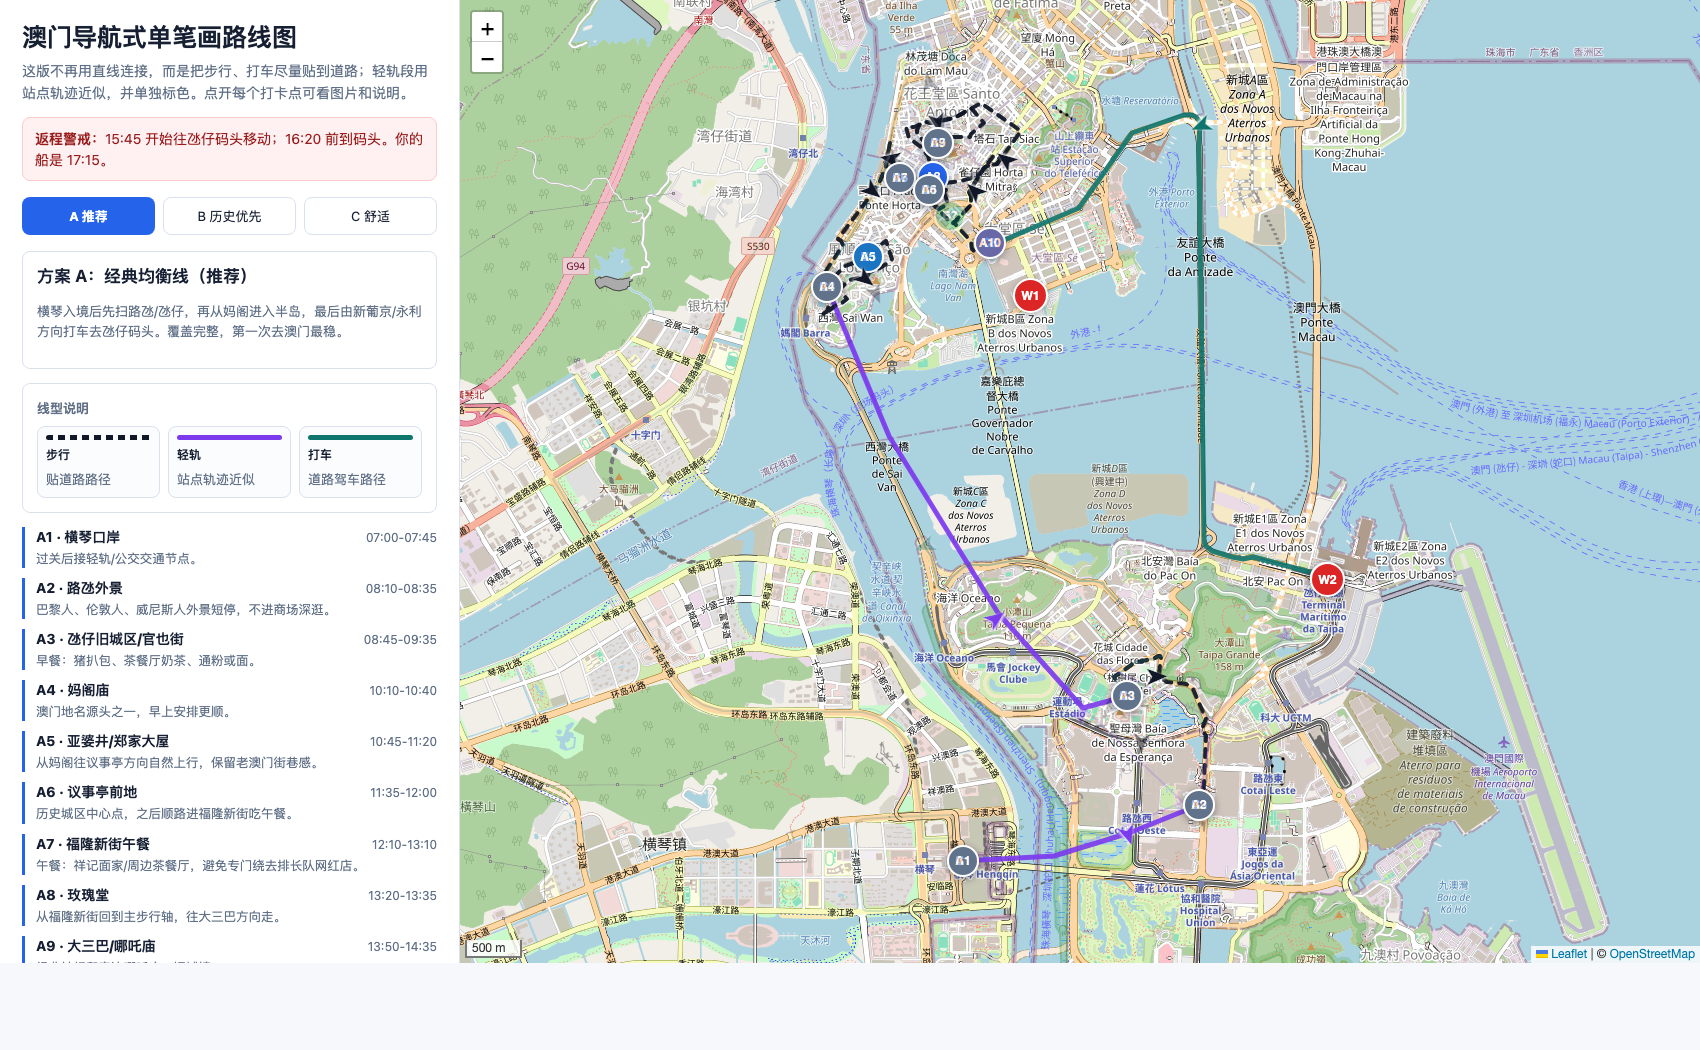
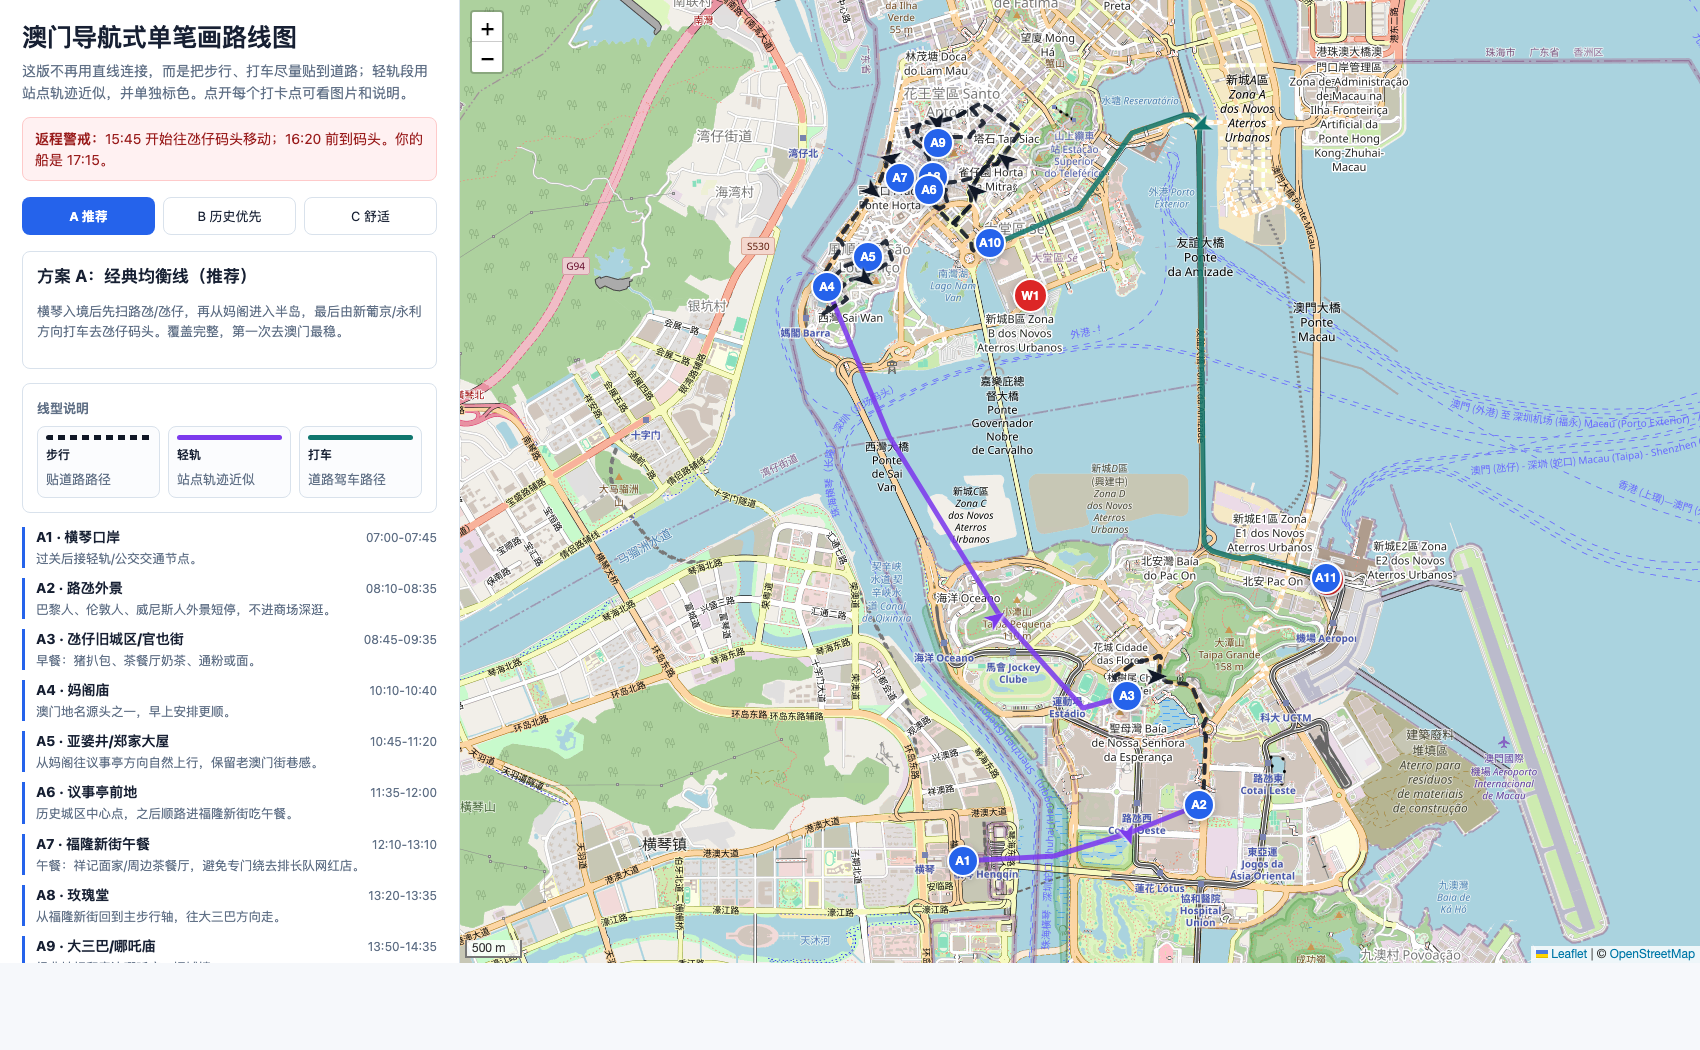
Show only selected route layer

diff --git a/index.html b/index.html
@@ -144,7 +144,7 @@ function popupHtml(stop, key) {
 }
 function addRoute(key) {
   const route = routes[key];
-  const group = L.layerGroup().addTo(map);
+  const group = L.layerGroup();
   route.segmentData.forEach(seg => {
     const style = modeStyle[seg.mode];
     const line = L.polyline(seg.coords, { ...style, lineCap:"round", lineJoin:"round" }).addTo(group);
@@ -173,11 +173,8 @@ function render(key) {
     return `<div class="stop" style="border-left-color:${route.color}"><div class="top"><div class="name">${stop[0]} · ${p.name}</div><div class="time">${stop[2]}</div></div><div class="note">${stop[3]}</div></div>`;
   }).join("");
   Object.entries(layers).forEach(([routeKey, layer]) => {
-    layer.eachLayer(item => {
-      if (item.setStyle) item.setStyle({ opacity: routeKey === key ? (item.options.dashArray ? .95 : .9) : .18, weight: routeKey === key ? item.options.weight : 2 });
-      const el = item.getElement?.();
-      if (el) el.style.opacity = routeKey === key ? "1" : ".32";
-    });
+    if (routeKey === key && !map.hasLayer(layer)) layer.addTo(map);
+    if (routeKey !== key && map.hasLayer(layer)) map.removeLayer(layer);
   });
   const bounds = L.latLngBounds([]);
   route.segmentData.forEach(seg => seg.coords.forEach(c => bounds.extend(c)));

diff --git a/macau-navigation-routes.html b/macau-navigation-routes.html
@@ -144,7 +144,7 @@ function popupHtml(stop, key) {
 }
 function addRoute(key) {
   const route = routes[key];
-  const group = L.layerGroup().addTo(map);
+  const group = L.layerGroup();
   route.segmentData.forEach(seg => {
     const style = modeStyle[seg.mode];
     const line = L.polyline(seg.coords, { ...style, lineCap:"round", lineJoin:"round" }).addTo(group);
@@ -173,11 +173,8 @@ function render(key) {
     return `<div class="stop" style="border-left-color:${route.color}"><div class="top"><div class="name">${stop[0]} · ${p.name}</div><div class="time">${stop[2]}</div></div><div class="note">${stop[3]}</div></div>`;
   }).join("");
   Object.entries(layers).forEach(([routeKey, layer]) => {
-    layer.eachLayer(item => {
-      if (item.setStyle) item.setStyle({ opacity: routeKey === key ? (item.options.dashArray ? .95 : .9) : .18, weight: routeKey === key ? item.options.weight : 2 });
-      const el = item.getElement?.();
-      if (el) el.style.opacity = routeKey === key ? "1" : ".32";
-    });
+    if (routeKey === key && !map.hasLayer(layer)) layer.addTo(map);
+    if (routeKey !== key && map.hasLayer(layer)) map.removeLayer(layer);
   });
   const bounds = L.latLngBounds([]);
   route.segmentData.forEach(seg => seg.coords.forEach(c => bounds.extend(c)));